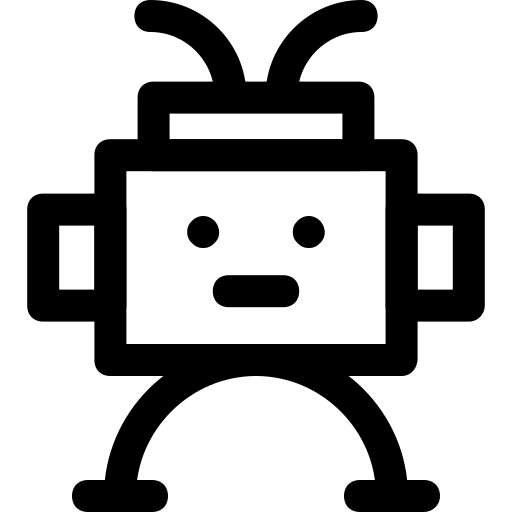
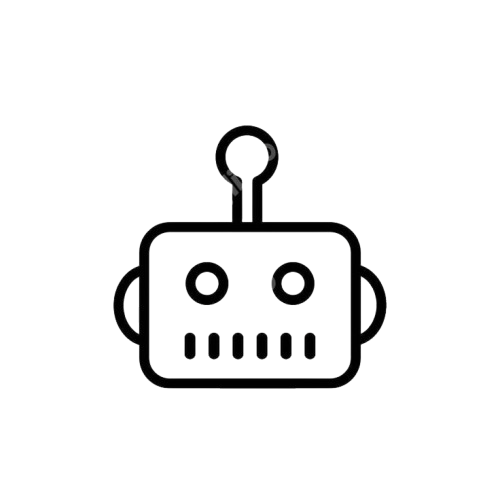
Update robot.png and human.png

diff --git a/rock-paper-scissor/index.html b/rock-paper-scissor/index.html
@@ -42,7 +42,7 @@
         <!-- Player Hands -->
         <div class="hand-wrapper">
             <span class="player-name">You</span>
-            <img src="assets/rock.png" alt="" class="flipped">
+            <img src="assets/human.png" alt="" class="flipped">
         </div>
 
         <div id="middle-text-wrapper">
